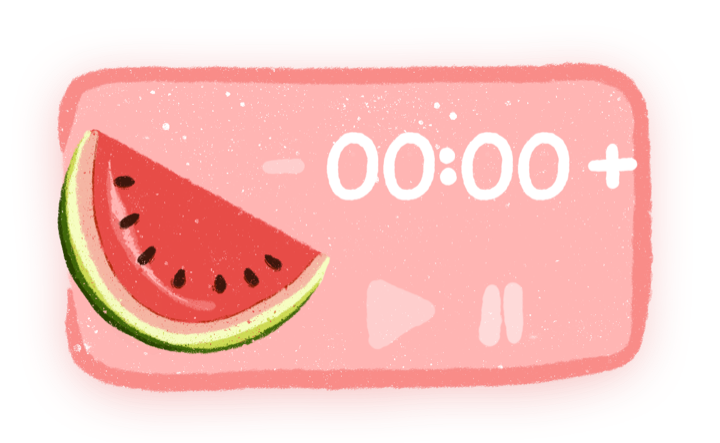
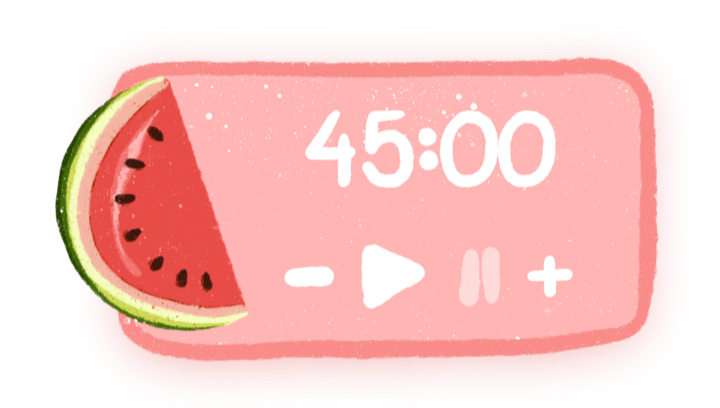
Upright watermelon, HH:MM:SS time, fixed controls row
- Watermelon turned 42.44° upright and drawn over the border, matching
  the Figma frame; window gets extra room on the left for the rind
- Time shows MM:SS under an hour and HH:MM:SS from an hour up, at one
  fixed size in fixed-width digit slots so nothing shifts as it ticks
- Controls are one fixed row (- play pause +) under the time, raised
  for more bottom padding; minus is bolder and a little larger
- Snapshot helper takes --minutes and --seeds for checking layouts

diff --git a/Sources/WatermelonPomodoro/WidgetView.swift b/Sources/WatermelonPomodoro/WidgetView.swift
@@ -44,29 +44,43 @@ enum Layout {
     static var widgetSize: CGSize { CGSize(width: canvas.width * scale, height: canvas.height * scale) }
     /// Room around the art for the soft pink shadow, in points.
     static let shadowPadding: CGFloat = 18
+    /// Extra room on the left: the watermelon's rind hangs past the card's edge (more so mid-shake).
+    static let leftOverhang: CGFloat = 24
     static var windowSize: CGSize {
-        CGSize(width: widgetSize.width + shadowPadding * 2, height: widgetSize.height + shadowPadding * 2)
+        CGSize(width: widgetSize.width + shadowPadding * 2 + leftOverhang,
+               height: widgetSize.height + shadowPadding * 2)
     }
     /// Average color of pink_bg.png.
     static let pink = Color(red: 1, green: 0xB0 / 255, blue: 0xB0 / 255)
 
-    /// Keep in sync with the crop in scripts/export_art.swift.
-    static let watermelonRect = CGRect(x: 14, y: 127, width: 443, height: 369)
-    static let timeRowCenter = CGPoint(x: 640, y: 192)
-    static let controlsCenter = CGPoint(x: 640, y: 428)
+    // Watermelon, placed as in the Figma frame: the left 469 x 560 of its canvas,
+    // turned 42.44° clockwise so it stands upright. Keep in sync with scripts/export_art.swift.
+    static let watermelonSize = CGSize(width: 469, height: 560)
+    static let watermelonCenter = CGPoint(x: 138, y: 279.9)
+    static let watermelonAngle: Double = 42.44
 
-    static let timeRowMaxWidth: CGFloat = 620
-    static let glyphScale: CGFloat = 0.8
-    static let glyphSpacing: CGFloat = 2
+    // Time: sized so the widest format (HH:MM:SS) fits between the watermelon's cut edge
+    // (x ~ 190 at this height) and ~5pt before the border's inner edge (x = 931).
+    static let timeCenter = CGPoint(x: 570, y: 185)
+    static let glyphScale: CGFloat = 0.7
+    /// Every digit gets the same width, like a digital clock, so nothing shifts as seconds tick.
+    static let digitSlot: CGFloat = 142
+
+    // Controls: one fixed row  –  ▶  ❚❚  +  that never moves.
+    static let controlsCenter = CGPoint(x: 570, y: 405)
     static let signScale: CGFloat = 0.6
-    static let signSpacing: CGFloat = 16
+    static let minusScale: CGFloat = 0.7
+    static let playPauseScale: CGFloat = 0.9
+    static let signToPlayPause: CGFloat = 40
+    static let playToPause: CGFloat = 50
 
-    /// Middle of the watermelon's red flesh, in design pixels.
-    static let fleshCenter = CGPoint(x: 215, y: 265)
+    /// Middle of the watermelon's red flesh once it's turned upright, in design pixels.
+    static let fleshCenter = CGPoint(x: 134, y: 256)
 
     /// Where seeds pop from, in points from the window's top-left corner.
     static var seedOrigin: CGPoint {
-        CGPoint(x: shadowPadding + fleshCenter.x * scale, y: shadowPadding + fleshCenter.y * scale)
+        CGPoint(x: shadowPadding + leftOverhang + fleshCenter.x * scale,
+                y: shadowPadding + fleshCenter.y * scale)
     }
 }
 
@@ -89,15 +103,16 @@ struct WidgetView: View {
             .gesture(windowDrag)
             .contextMenu { menu }
 
-            watermelon
             layer("border").allowsHitTesting(false)
-            timeRow.position(Layout.timeRowCenter)
+            watermelon
+            time.position(Layout.timeCenter)
             controls.position(Layout.controlsCenter)
         }
         .frame(width: Layout.canvas.width, height: Layout.canvas.height, alignment: .topLeading)
         .scaleEffect(Layout.scale, anchor: .topLeading)
         .frame(width: Layout.widgetSize.width, height: Layout.widgetSize.height, alignment: .topLeading)
         .padding(Layout.shadowPadding)
+        .padding(.leading, Layout.leftOverhang)
     }
 
     private func layer(_ name: String) -> some View {
@@ -113,10 +128,11 @@ struct WidgetView: View {
         Image(nsImage: Art.image("watermelon"))
             .resizable()
             .interpolation(.high)
-            .frame(width: Layout.watermelonRect.width, height: Layout.watermelonRect.height)
+            .frame(width: Layout.watermelonSize.width, height: Layout.watermelonSize.height)
+            .rotationEffect(.degrees(Layout.watermelonAngle))
             // Gentle sway while focusing.
             .phaseAnimator([-2.5, 2.5]) { content, angle in
-                content.rotationEffect(.degrees(timer.isRunning ? angle : 0), anchor: .bottom)
+                content.rotationEffect(.degrees(timer.isRunning ? angle : 0))
             } animation: { _ in
                 .easeInOut(duration: 1.4)
             }
@@ -158,54 +174,51 @@ struct WidgetView: View {
                     CubicKeyframe(0, duration: 0.25)
                 }
             }
-            .position(x: Layout.watermelonRect.midX, y: Layout.watermelonRect.midY)
+            .position(Layout.watermelonCenter)
             .allowsHitTesting(false)
     }
 
-    // MARK: Time row:  –  25:00  +
+    // MARK: Time
 
-    private var timeRow: some View {
-        let glyphs = timer.timeText.map(Art.glyphName(for:))
-        let signsWidth = ["minus", "plus"]
-            .map { max(ArtButton.minHitSize, Art.size($0).width * Layout.signScale) }
-            .reduce(0, +) + Layout.signSpacing * 2
-        let naturalWidth = glyphs.reduce(0) { $0 + Art.size($1).width }
-            + Layout.glyphSpacing * CGFloat(glyphs.count - 1)
-        // Shrink the digits if a long time (like 120:00) wouldn't fit.
-        let glyphScale = min(Layout.glyphScale, (Layout.timeRowMaxWidth - signsWidth) / naturalWidth)
+    private var time: some View {
+        let scale = Layout.glyphScale
+        return HStack(spacing: 0) {
+            ForEach(Array(timer.timeText.map(Art.glyphName(for:)).enumerated()), id: \.offset) { _, name in
+                let size = Art.size(name)
+                let slot = name == "colon" ? size.width : Layout.digitSlot
+                Image(nsImage: Art.image(name))
+                    .resizable()
+                    .interpolation(.high)
+                    .frame(width: size.width * scale, height: size.height * scale)
+                    .frame(width: slot * scale)
+            }
+        }
+        .allowsHitTesting(false)
+    }
 
-        return HStack(spacing: Layout.signSpacing) {
-            ArtButton(name: "minus", scale: Layout.signScale, enabled: timer.canAdjustDown) {
+    // MARK: Controls:  –  ▶  ❚❚  +
+
+    private var controls: some View {
+        HStack(spacing: 0) {
+            ArtButton(name: "minus", scale: Layout.minusScale, enabled: timer.canAdjustDown) {
                 timer.adjust(up: false)
             }
             .help("15 minutes less")
 
-            HStack(spacing: Layout.glyphSpacing) {
-                ForEach(Array(glyphs.enumerated()), id: \.offset) { _, name in
-                    let size = Art.size(name)
-                    Image(nsImage: Art.image(name))
-                        .resizable()
-                        .interpolation(.high)
-                        .frame(width: size.width * glyphScale, height: size.height * glyphScale)
-                }
-            }
-            .allowsHitTesting(false)
+            ArtButton(name: "play", scale: Layout.playPauseScale,
+                      enabled: timer.isRunning || timer.canStart, dimmed: timer.isRunning) { timer.start() }
+                .help("Start")
+                .padding(.leading, Layout.signToPlayPause)
+
+            ArtButton(name: "pause", scale: Layout.playPauseScale, dimmed: !timer.isRunning) { timer.pause() }
+                .help("Pause")
+                .padding(.leading, Layout.playToPause)
 
             ArtButton(name: "plus", scale: Layout.signScale, enabled: timer.canAdjustUp) {
                 timer.adjust(up: true)
             }
             .help("15 minutes more")
-        }
-    }
-
-    // MARK: Play / pause
-
-    private var controls: some View {
-        HStack(spacing: 50) {
-            ArtButton(name: "play", scale: 0.9, enabled: timer.isRunning || timer.canStart, dimmed: timer.isRunning) { timer.start() }
-                .help("Start")
-            ArtButton(name: "pause", scale: 0.9, dimmed: !timer.isRunning) { timer.pause() }
-                .help("Pause")
+            .padding(.leading, Layout.signToPlayPause)
         }
     }
 
@@ -255,7 +268,8 @@ struct Shake {
 
 /// A button drawn with one of the hand-drawn glyphs, with a generous click area.
 struct ArtButton: View {
-    static let minHitSize: CGFloat = 100
+    /// Extra clickable area around the drawing, without taking up layout space.
+    static let hitPadding: CGFloat = 22
 
     let name: String
     var scale: CGFloat = 1
@@ -270,10 +284,11 @@ struct ArtButton: View {
                 .resizable()
                 .interpolation(.high)
                 .frame(width: size.width * scale, height: size.height * scale)
-                .frame(minWidth: Self.minHitSize, minHeight: Self.minHitSize)
+                .padding(Self.hitPadding)
                 .contentShape(Rectangle())
         }
         .buttonStyle(SquishStyle())
+        .padding(-Self.hitPadding)
         .opacity(!enabled ? 0.35 : dimmed ? 0.5 : 1)
         .disabled(!enabled)
     }

diff --git a/scripts/export_art.swift b/scripts/export_art.swift
@@ -60,11 +60,13 @@ for name in ["white_bg", "pink_bg", "border"] {
 let glyphs = (0...9).map(String.init) + ["colon", "minus", "plus", "play", "pause"]
 for name in glyphs {
     let image = load(name)
-    save(thicken(image.cropping(to: visibleBounds(image))!, by: strokeBoost), name)
+    // The minus is a single thin stroke, so it gets extra weight to hold its own next to ▶ and +.
+    let boost = name == "minus" ? strokeBoost + 5 : strokeBoost
+    save(thicken(image.cropping(to: visibleBounds(image))!, by: boost), name)
 }
 
-// The slice has a few pale smudges around it on the canvas; keep just the slice.
-// Keep in sync with WidgetView.Layout.watermelonRect.
-save(load("watermelon").cropping(to: CGRect(x: 14, y: 127, width: 443, height: 369))!, "watermelon")
+// Same crop as the Figma frame: the left 469 x 560 of the canvas. The app rotates it upright.
+// Keep in sync with WidgetView.Layout.watermelonSize.
+save(load("watermelon").cropping(to: CGRect(x: 0, y: 0, width: 469, height: 560))!, "watermelon")
 
 print("Exported art to \(dst.path)")

diff --git a/Sources/WatermelonPomodoro/Snapshot.swift b/Sources/WatermelonPomodoro/Snapshot.swift
@@ -5,11 +5,13 @@ import SwiftUI
 enum Snapshot {
     /// With `seeds`, also draws one frame of the celebration, laid out exactly like the seed overlay window.
     @MainActor
-    static func write(to path: String, seeds: Bool = false) {
+    static func write(to path: String, seeds: Bool = false, minutes: Int = 0) {
+        let timer = PomodoroTimer()
+        timer.setMinutes(minutes, for: .focus)
         let margin = SeedPanel.margin
         let origin = CGPoint(x: margin + Layout.seedOrigin.x, y: margin + Layout.seedOrigin.y)
         let content = ZStack(alignment: .topLeading) {
-            WidgetView().environmentObject(PomodoroTimer())
+            WidgetView().environmentObject(timer)
                 .padding(seeds ? margin : 0)
             if seeds {
                 SeedBurstView(seeds: Seed.bursts(from: origin), startDate: Date().addingTimeInterval(-0.3))

diff --git a/Sources/WatermelonPomodoro/main.swift b/Sources/WatermelonPomodoro/main.swift
@@ -3,7 +3,8 @@ import AppKit
 // Dev helper: `WatermelonPomodoro --snapshot out.png` renders the widget to an image and exits.
 if let i = CommandLine.arguments.firstIndex(of: "--snapshot"), i + 1 < CommandLine.arguments.count {
     let seeds = CommandLine.arguments.contains("--seeds")
-    MainActor.assumeIsolated { Snapshot.write(to: CommandLine.arguments[i + 1], seeds: seeds) }
+    let minutes = CommandLine.arguments.firstIndex(of: "--minutes").flatMap { Int(CommandLine.arguments[$0 + 1]) } ?? 0
+    MainActor.assumeIsolated { Snapshot.write(to: CommandLine.arguments[i + 1], seeds: seeds, minutes: minutes) }
     exit(0)
 }
 

diff --git a/Sources/WatermelonPomodoro/PomodoroTimer.swift b/Sources/WatermelonPomodoro/PomodoroTimer.swift
@@ -30,8 +30,12 @@ final class PomodoroTimer: ObservableObject {
     /// What the timer was last set to, so Reset can go back to it.
     private var setSeconds = 0
 
+    /// MM:SS under an hour, HH:MM:SS from an hour up.
     var timeText: String {
-        String(format: "%02d:%02d", remaining / 60, remaining % 60)
+        let hours = remaining / 3600, minutes = remaining / 60 % 60, seconds = remaining % 60
+        return hours > 0
+            ? String(format: "%02d:%02d:%02d", hours, minutes, seconds)
+            : String(format: "%02d:%02d", minutes, seconds)
     }
 
     // MARK: - Controls

diff --git a/README.md b/README.md
@@ -8,8 +8,9 @@ A tiny, hand-drawn pomodoro timer for macOS that floats on top of every app.
 
 - Floats above all windows, on every desktop, even over full-screen apps
 - Drag it anywhere, and it remembers where you left it
-- Starts at **00:00**. **– / +** change the time in 15-minute steps, up to 180 minutes (even while it's running)
-- **▶ / ❚❚** to start and pause
+- Starts at **00:00**. **– / +** change the time in 15-minute steps, up to 3 hours (even while it's running)
+- Shows `MM:SS` under an hour and `HH:MM:SS` from an hour up
+- **– ▶ ❚❚ +** sit in one fixed row, so nothing moves around as the time changes
 - The watermelon sways while you focus. When time's up it shakes, hops and pops seeds 🎉
 - Right-click for presets, **Reset**, **Preview celebration** and **Quit**
 
